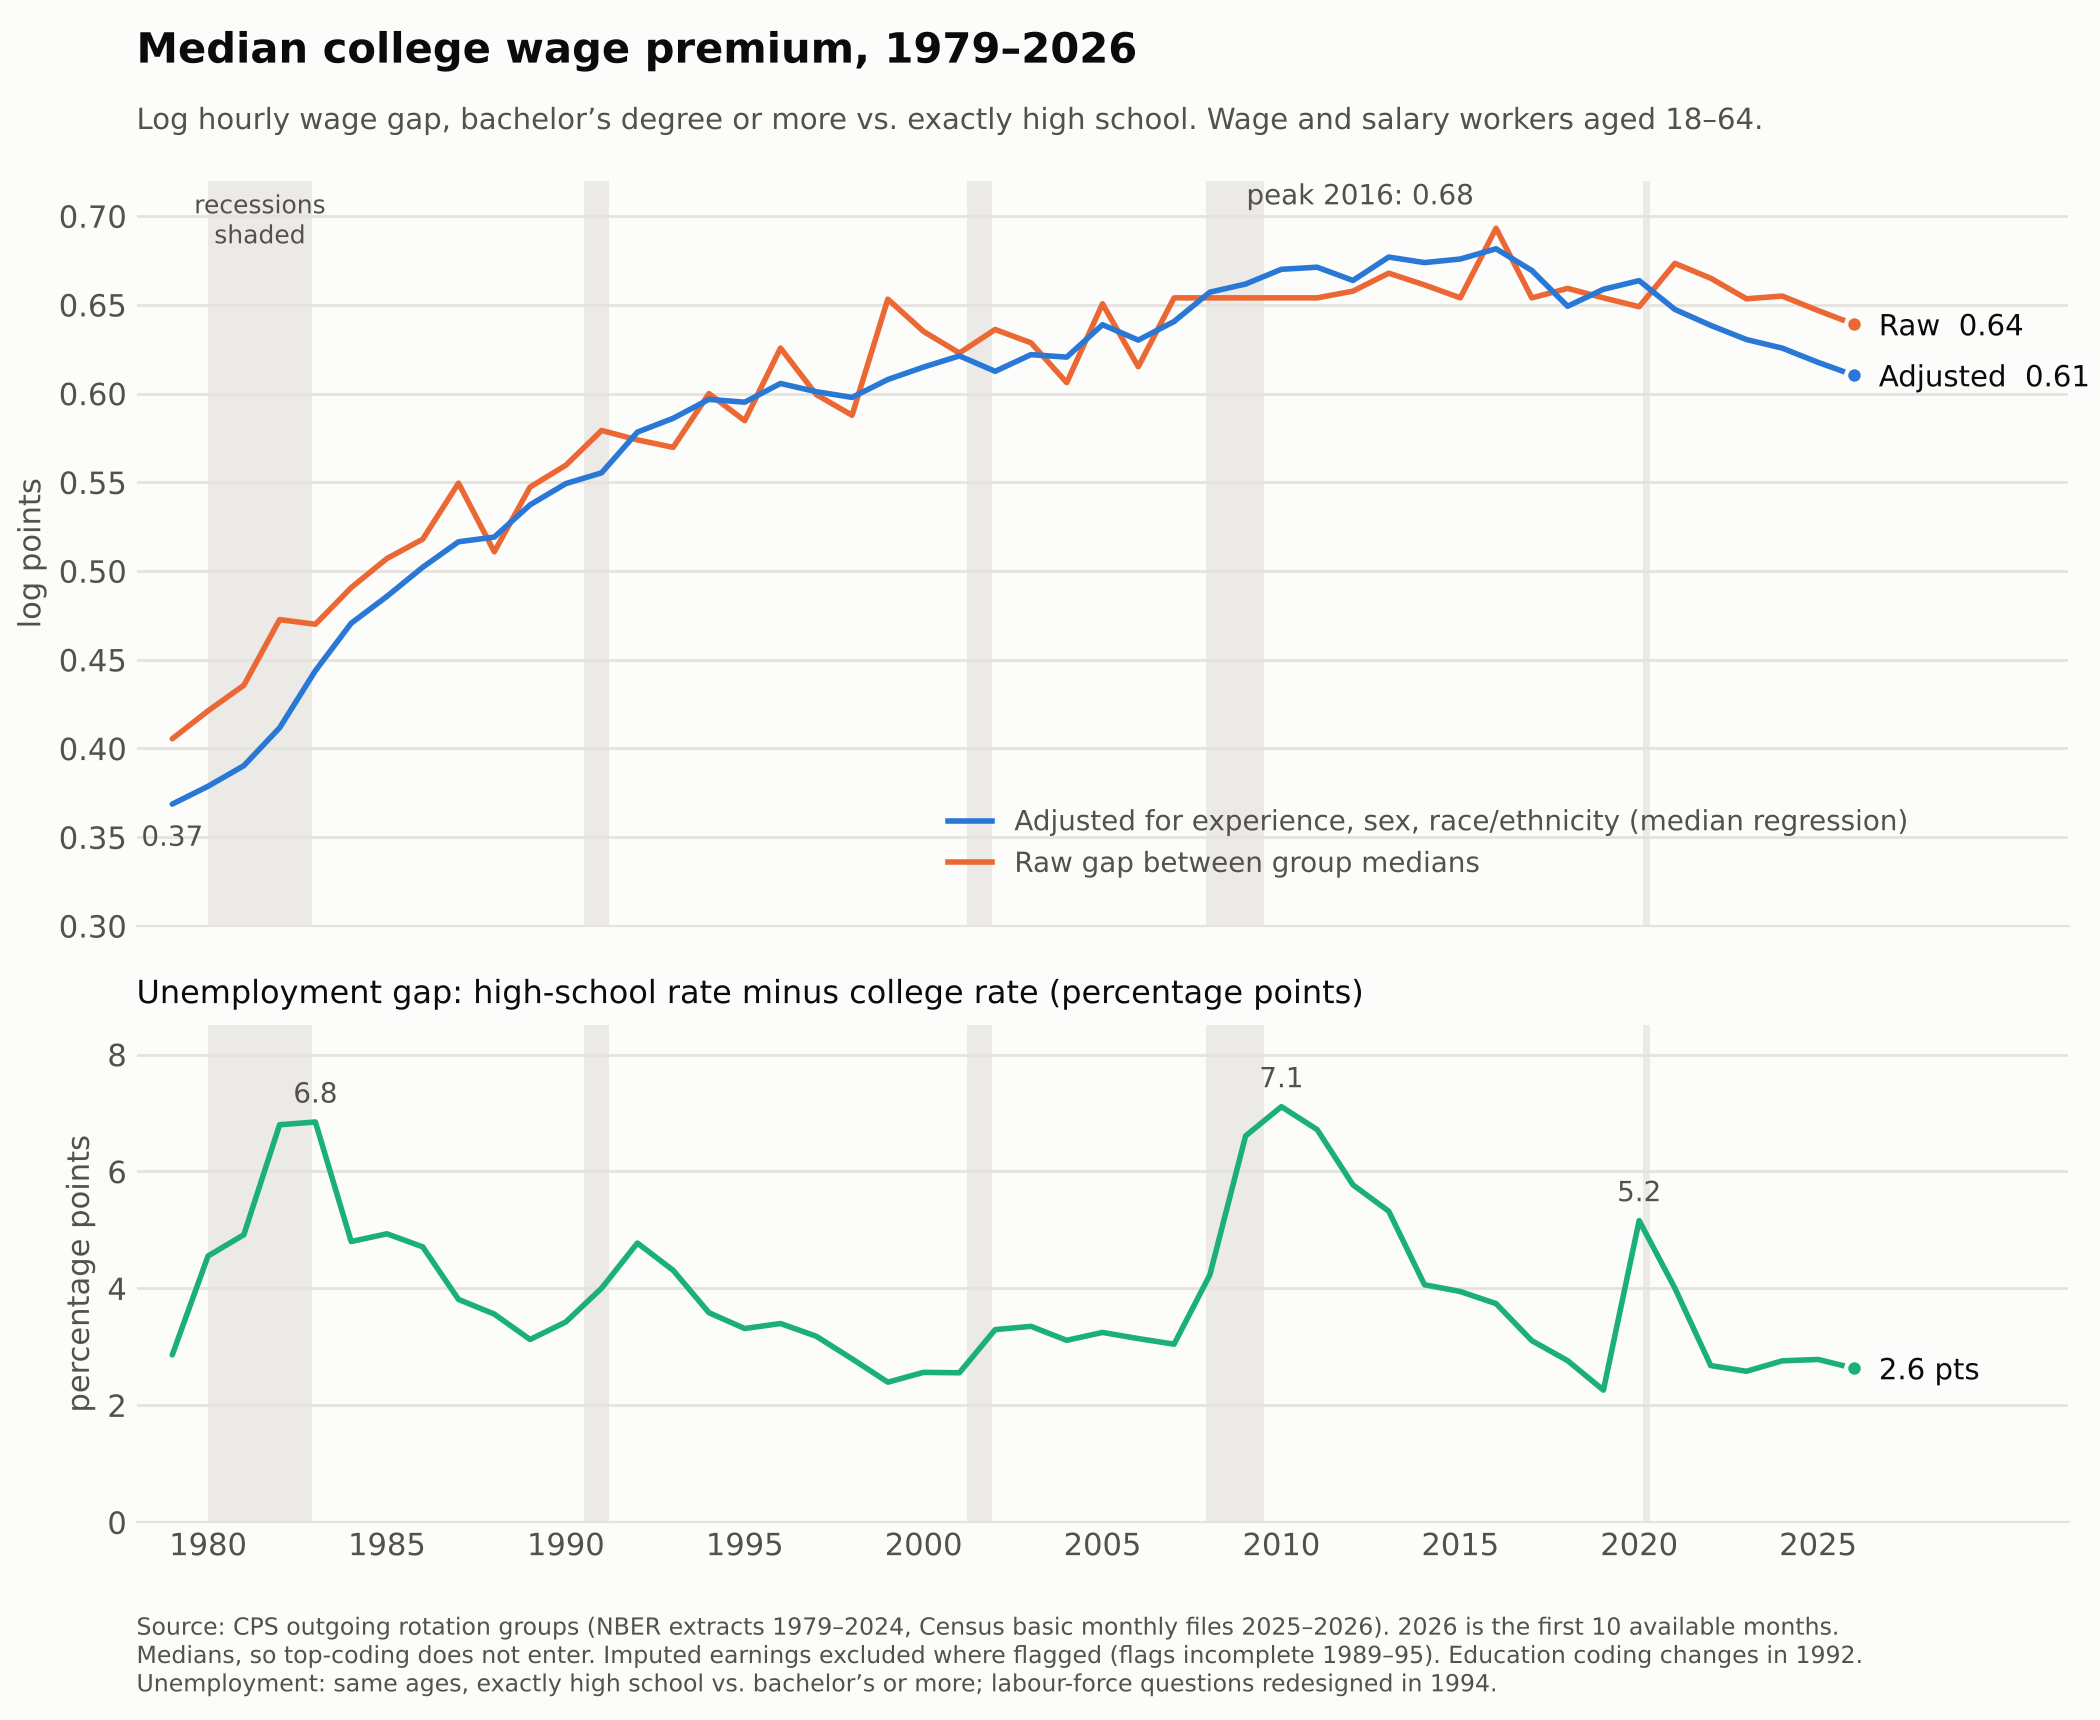
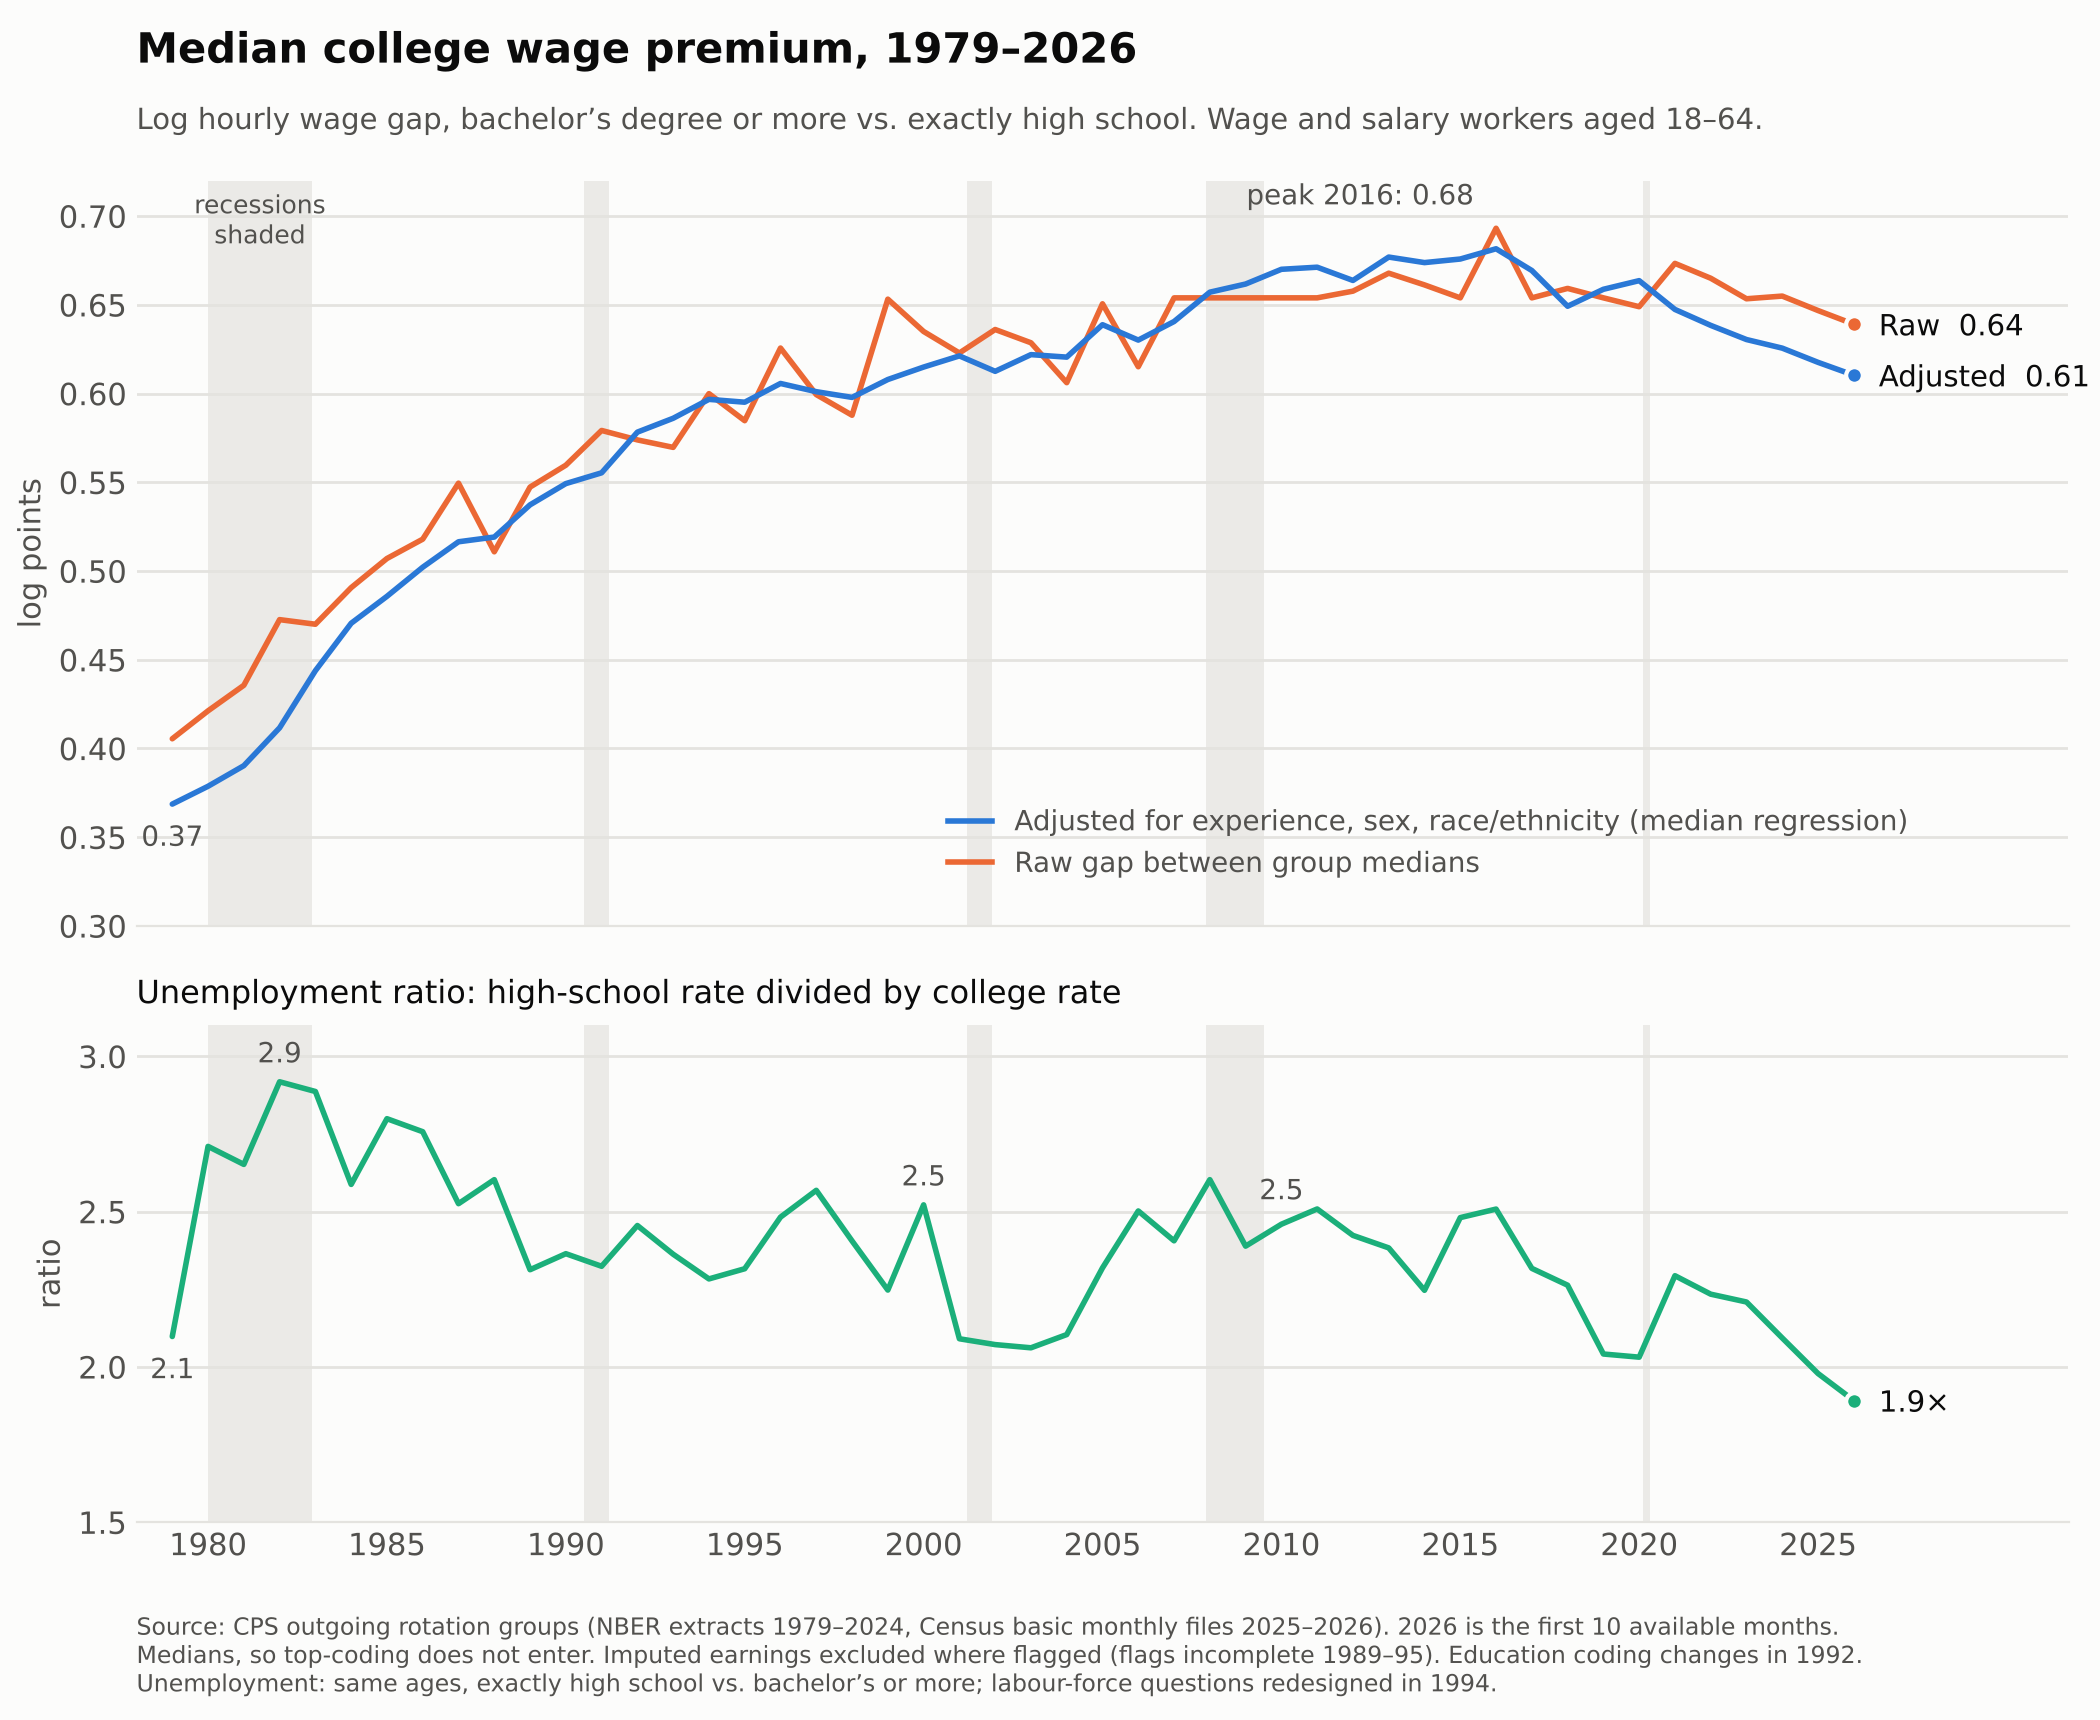
Plot the unemployment comparison as a ratio of rates
Claude-Session: https://claude.ai/code/session_01L8rdCn9zc6zqCzSu7Uiijc

Changed region(s): [[0.031, 0.6163, 0.5571, 0.832], [0.4952, 0.6163, 0.9595, 0.832], [0.1857, 0.5547, 0.65, 0.5855]]

diff --git a/analysis/plot_college_premium_longrun.py b/analysis/plot_college_premium_longrun.py
@@ -1,4 +1,4 @@
-"""Plot the median college wage premium (top) and the HS-minus-BA unemployment gap (bottom).
+"""Plot the median college wage premium (top) and the HS/BA unemployment-rate ratio (bottom).
 
 Reads analysis/output/{college_premium,unemployment_gap}_longrun.csv -> analysis/output/college_premium_longrun.png
 Two panels on one time axis rather than two y-scales on one plot: the measures have different units.
@@ -37,13 +37,14 @@ for a in (ax, ax2):
     for x0, x1, _ in REC:
         a.axvspan(x0, x1, color=GRID, alpha=0.7, lw=0)
 ax.text(1981.45, 0.985, "recessions\nshaded", transform=ax.get_xaxis_transform(), ha="center", va="top", color=INK2, fontsize=9)
-ax2.plot(u.index, u.gap, color=AQUA, lw=2, solid_capstyle="round")
-ax2.plot([last], [u.gap.iloc[-1]], "o", ms=6, color=AQUA, mec=SURF, mew=1.5, zorder=5)
-ax2.annotate(f"{u.gap.iloc[-1]:.1f} pts", (last, u.gap.iloc[-1]), xytext=(9, -4), textcoords="offset points", color=INK, fontsize=10.5)
-for y in (1983, 2010, 2020):
-    ax2.annotate(f"{u.gap[y]:.1f}", (y, u.gap[y]), xytext=(0, 7), textcoords="offset points", ha="center", color=INK2, fontsize=10)
-ax2.set_title("Unemployment gap: high-school rate minus college rate (percentage points)", loc="left", color=INK, fontsize=11.5, pad=8)
-ax2.set_ylim(0, 8.5); ax2.set_yticks(range(0, 9, 2)); ax2.set_ylabel("percentage points", color=INK2)
+u["ratio"] = u.u_hs / u.u_ba
+ax2.plot(u.index, u.ratio, color=AQUA, lw=2, solid_capstyle="round")
+ax2.plot([last], [u.ratio.iloc[-1]], "o", ms=6, color=AQUA, mec=SURF, mew=1.5, zorder=5)
+ax2.annotate(f"{u.ratio.iloc[-1]:.1f}×", (last, u.ratio.iloc[-1]), xytext=(9, -4), textcoords="offset points", color=INK, fontsize=10.5)
+for y, dy in ((1979, -15), (1982, 7), (2000, 7), (2010, 9)):
+    ax2.annotate(f"{u.ratio[y]:.1f}", (y, u.ratio[y]), xytext=(0, dy), textcoords="offset points", ha="center", color=INK2, fontsize=10)
+ax2.set_title("Unemployment ratio: high-school rate divided by college rate", loc="left", color=INK, fontsize=11.5, pad=8)
+ax2.set_ylim(1.5, 3.1); ax2.set_yticks([1.5, 2.0, 2.5, 3.0]); ax2.set_ylabel("ratio", color=INK2)
 ax2.yaxis.grid(True, color=GRID, lw=1); ax2.set_axisbelow(True)
 for sp in ("top", "right", "left"): ax2.spines[sp].set_visible(False)
 ax2.spines["bottom"].set_color(GRID); ax2.tick_params(colors=INK2, length=0)
